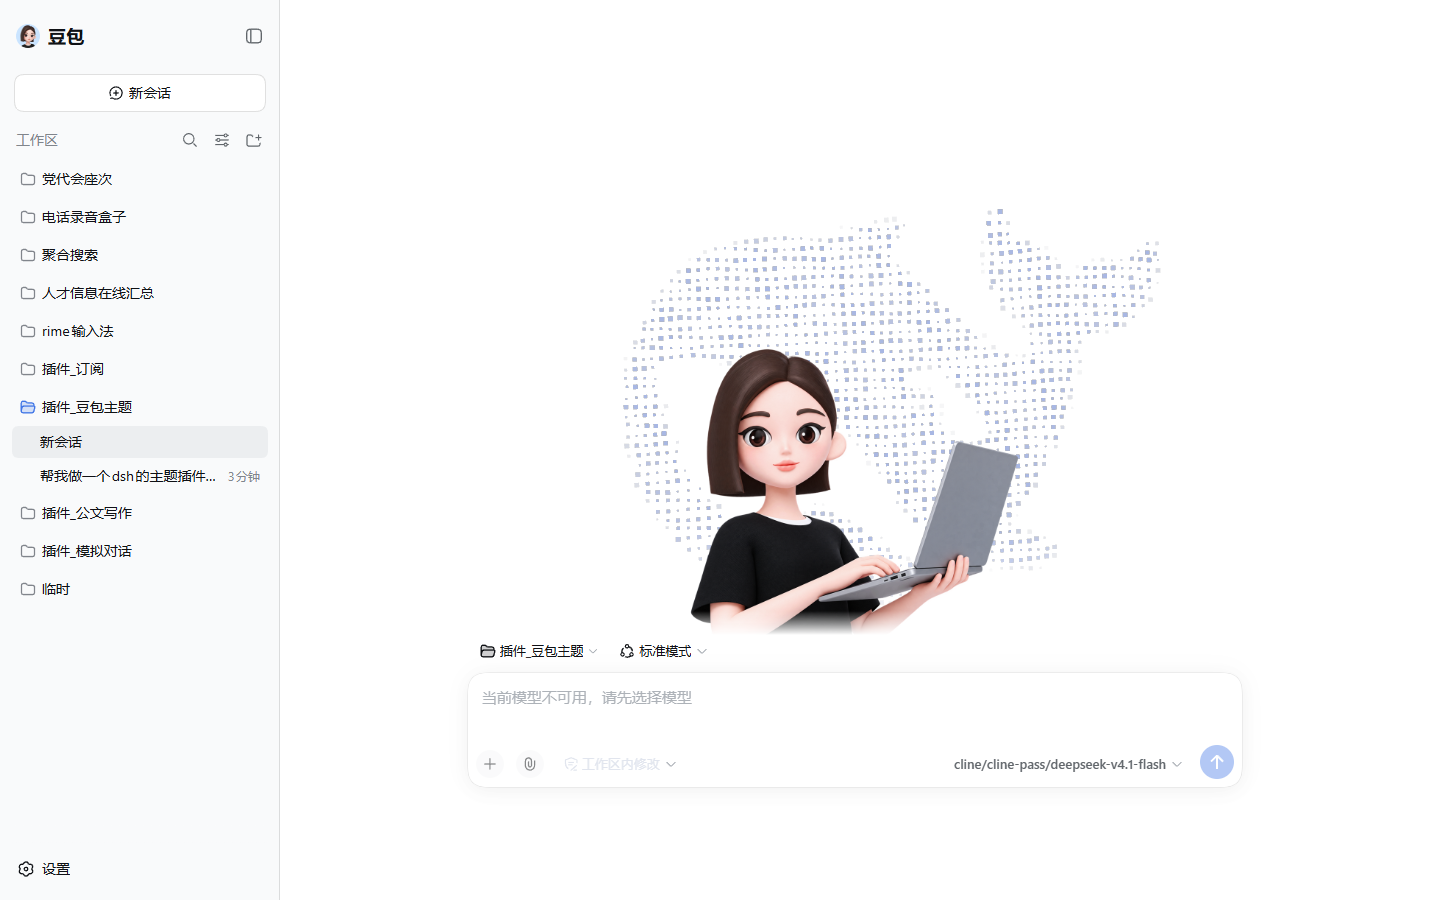
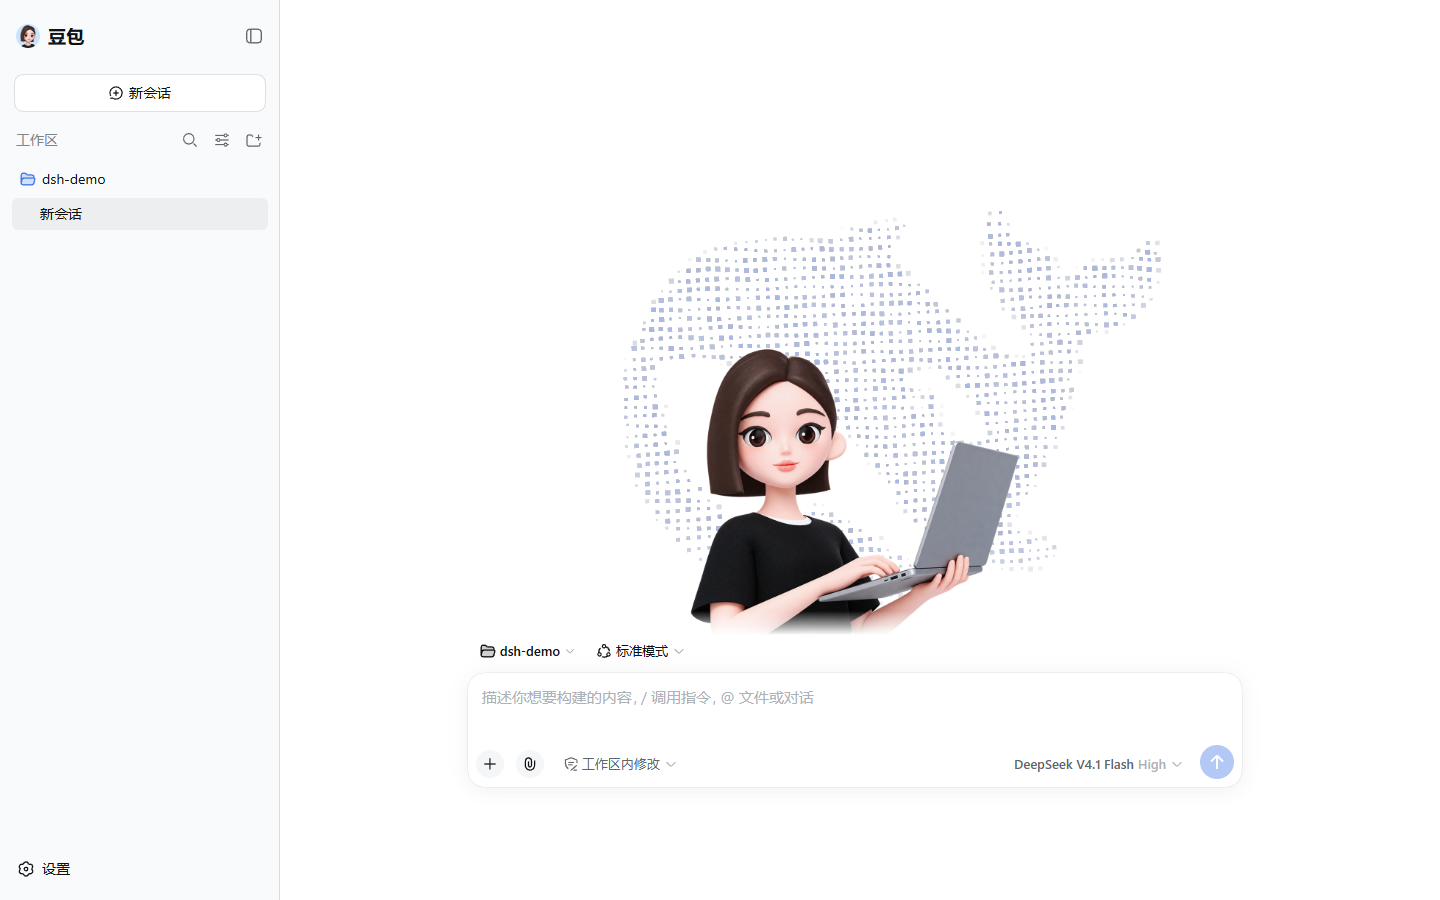
把 README 的截图换成干净环境拍的，并去掉一句话
- 截图改用一个隔离的 DSH_HOME 拍：只装了本插件，工作区只有一个演示用的
  `dsh-demo`，模型用内置的 deepseek-flash（demo 的 settings 里给了个
  `name: DeepSeek V4.1 Flash` 的显示名），所以截图里不会出现任何个人工作区、
  会话或 provider 信息。
- tools/shoot.mjs 增加 `--click <文字>`，用来点掉首次运行的 API Key 提示。
- README 去掉「原来的『探索未至之境 预览版』标题不再显示」这句。

diff --git a/README.md b/README.md
@@ -8,13 +8,14 @@
 
 - 侧栏左上角原本的 DeepSeek 标志和名字，换成豆包图标和「豆包」
 - 新会话页面换成豆包人物，人物背后是一层点组成的 DeepSeek 鲸鱼，鼠标划过去点会散开
-- 原来的「探索未至之境 预览版」标题不再显示
 
 浅色和深色主题都做了适配，窗口随便拉都不会错位。
 
 | 深色主题 | 鼠标划过 |
 | --- | --- |
 | ![深色](docs/hero-dark.png) | ![交互](docs/hero-pointer.png) |
+
+截图是在一个干净的 DSH 环境里拍的，工作区只有一个演示用的 `dsh-demo`。
 
 ## 安装
 
